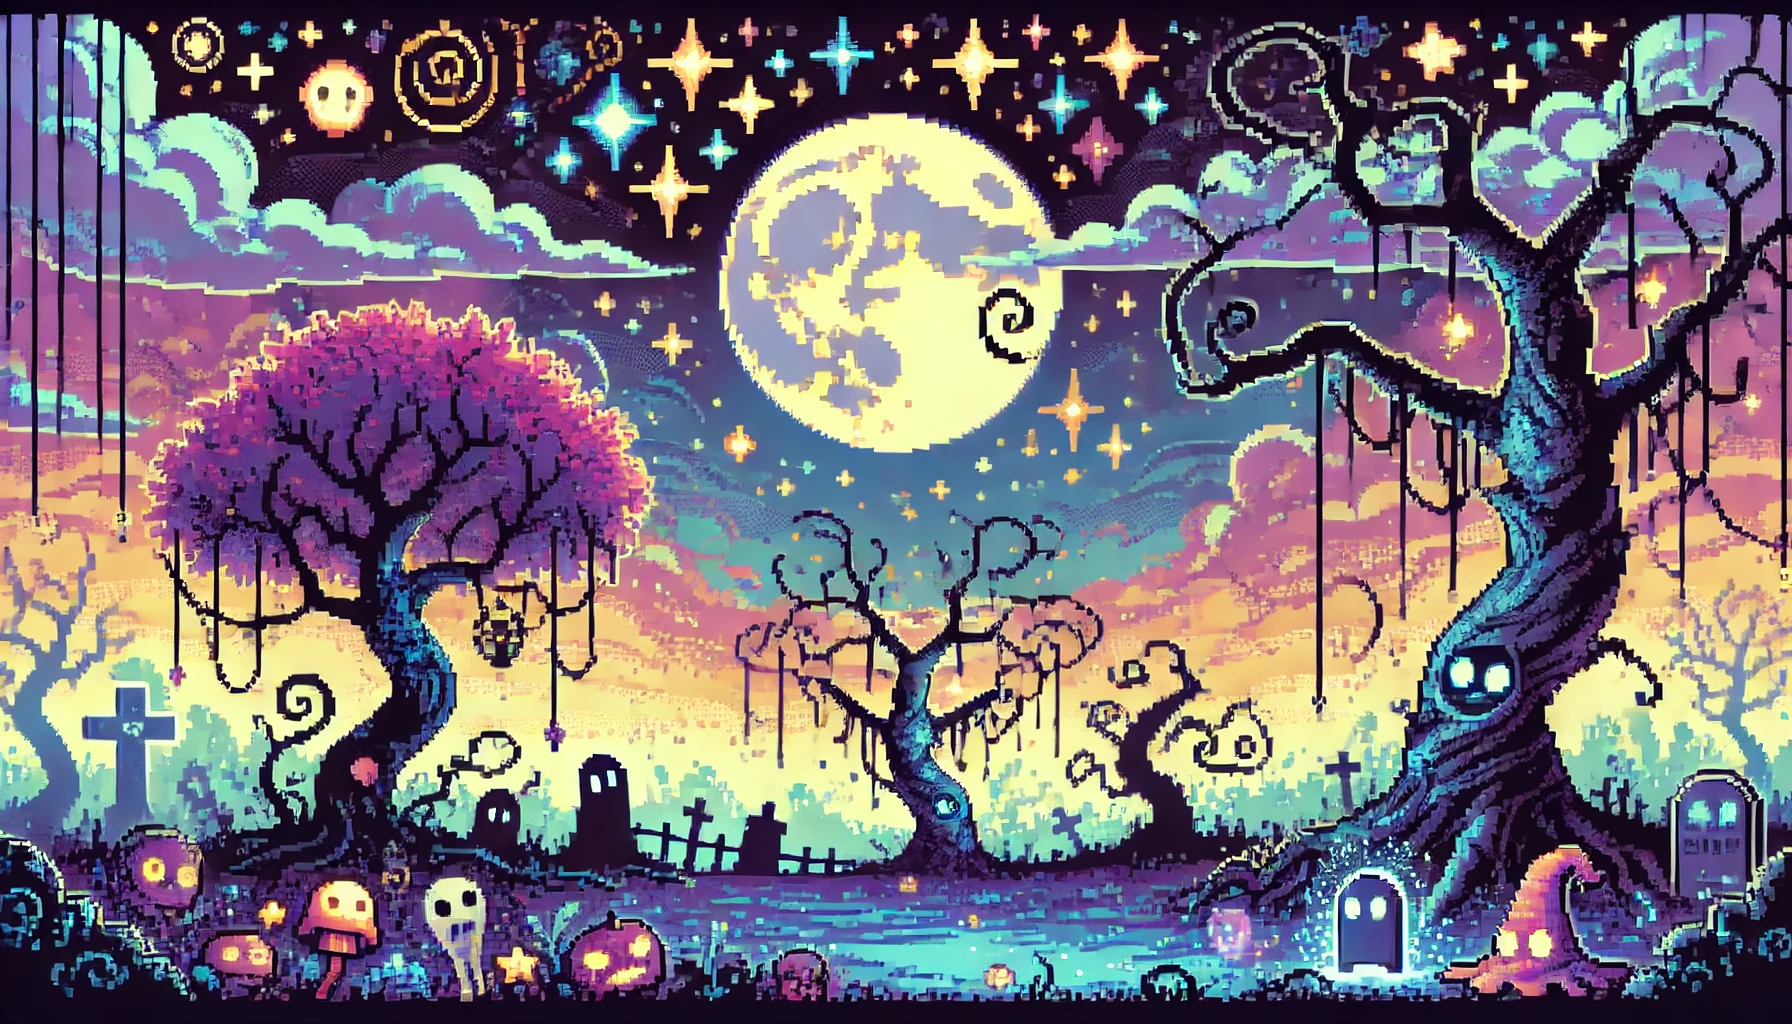
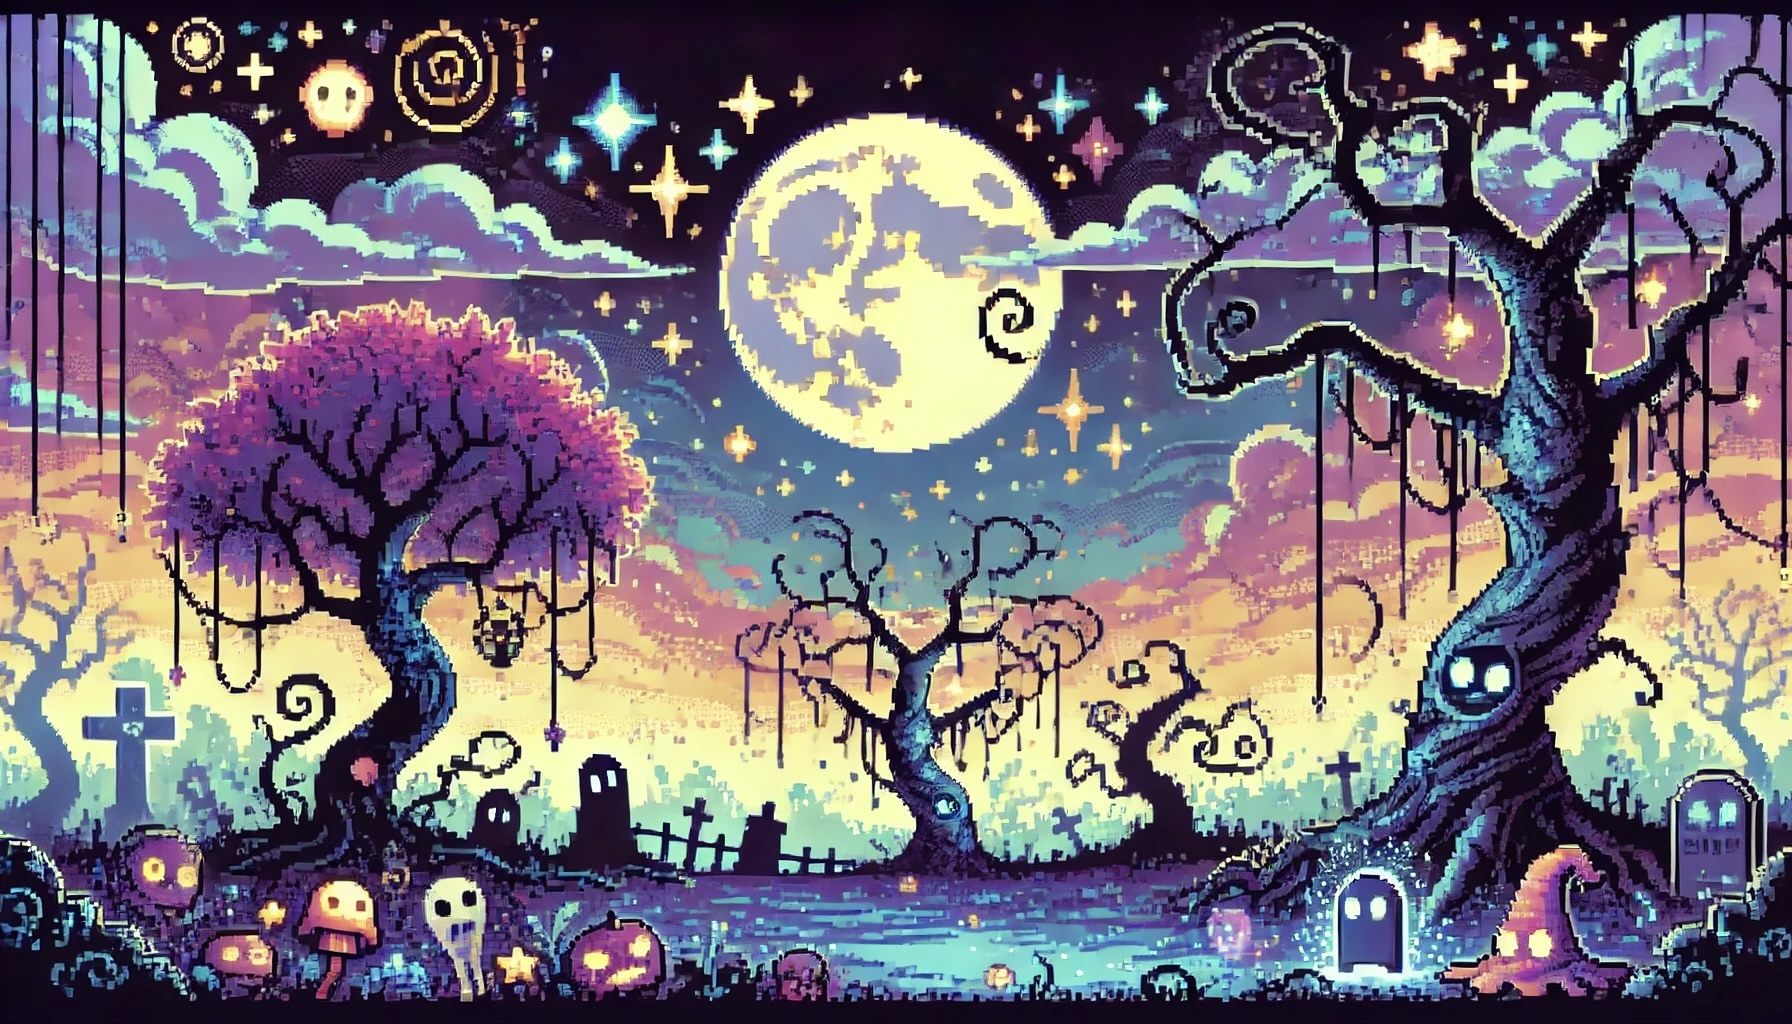
uprava pozadi, aby byl videt text

diff --git a/css/gameSection.css b/css/gameSection.css
@@ -1,11 +1,102 @@
-/* HLAVNI HRA  */
-
-/* pozadi pro hlavni hru */
-.gamePixel{
-    background-image:var(--BG_PixelGame);
+/* HLAVNÍ HRA */
+section {
+    background-repeat: no-repeat;
+    background-size: cover;
+    background-position: center center;
+    height: 100vh;
+    width: 100%;
+    margin: 0;
+    padding: 0;
 }
 
 .gamePostApo {
-    background-image:var(--BG_PostApoGame);
+    background-image: var(--BG_PostApoGame);
+    font-family: var(--fontFamily_PostApo);
+    display: flex;
+    flex-direction: column; 
+    
 }
+
+.gamePostApo li {
+   font-size: 1.5em;
+    background: linear-gradient(45deg, #B8860B, #FFD700, #DAA520); /* Zlaty efekt */
+    -webkit-background-clip: text;
+    -webkit-text-fill-color: transparent;
+    text-shadow: 1px 1px 1px rgba(0, 0, 0, 0.8), 0 0 10px #FFD700;
+    text-align: center;
+}
+
+.gamePixel {
+    background-image: url(../images/pixelGame/bg-pixel.png);
+    font-family: var(--fontFamily_Pixel);
+    display: flex;
+    flex-direction: column; 
+}
+
+.gamePixel li {
+    font-size: 2.5em;
+    color: #DDA0DD;
+    text-transform: uppercase;
+
+}
+
+
+
+.gamePixel li {
+    /* background: linear-gradient(45deg, #9400D3, #DDA0DD, #8A2BE2); 
+    -webkit-background-clip: text;
+    -webkit-text-fill-color: transparent; */
+    text-align: center; /* Zarovnání */
+    text-transform: uppercase;
+}
+
+
+/* HORNÍ PANEL */
+header {
+    display: flex; 
+    justify-content: center;
+    align-items: center; 
+    height: 100px; 
+    width: 100%;
+}
+
+.header-info {
+    display: flex;
+    justify-content: center; /* na stred */
+    align-items: center; /* vertikálni zarovnani */
+    gap: 20px; /* mezera mezi polozkami */
+    list-style-type: none; 
+    padding: 0;
+    margin: 0;
+}
+
+
+/* HERNÍ OBLAST */
+main#gameArea {
+    flex: 1; 
+    display: flex;
+    justify-content: center;
+    align-items: center; 
+}
+
+/* RESPONZIVNI DIZAJN */
+@media (max-width: 768px) {
+    header {
+        height: auto;
+        padding: 10px;
+    }
+
+    .header-info {
+        gap: 10px;
+    }
+
+    .info-item {
+        font-size: 1.2em;
+    }
+
+    main#gameArea {
+        padding: 10px;
+    }
+}
+
 

diff --git a/index.html b/index.html
@@ -41,7 +41,7 @@
     </aside>
 
     <!-- VYBER ZE DVOU HERNICH MODU -->
-    <nav id="modeSelection" >
+    <nav id="modeSelection" style="display: none;">
         <h2 id="greeting">Choose Your Game Mode:</h2>
         <div class="mode-container">
 
@@ -81,7 +81,7 @@
     <section class="gamePostApo">
         <header>
             <ul class="header-info">
-                <li class="stop-item"><button id="stop-button">||</button></li>
+                <!-- <li class="stop-item"><button id="stop-button">||</button></li> -->
                 <li class="info-item">Time: <span id="time">00:00</span></li>
                <li class="info-item">Score: <span id="score">0</span></li>
                <li class="info-item">Hit: <span id="hit">0</span></li>

diff --git a/css/modeSelection.css b/css/modeSelection.css
@@ -1,7 +1,3 @@
-.nameHL {
-    color: red;
-}
-
 #modeSelection {
     font-family: var(--fontUniversal);
     display: flex;
@@ -46,15 +42,15 @@
 }
 
 
-.modePixelGame {
-    background-image: 
+.modePixel {
+    background-image:var(--BG_PixelGame);
 }
 
 .modePostApo {
-    background-image: url(../images/postApoGame/bg-postApo.png);
+    background-image: var(--BG_PostApoGame);
 }
 
-.modePixelGame:hover,
+.modePixel:hover,
 .modePostApo:hover {
     transform: scale(1.05);
     opacity: .8;
@@ -68,7 +64,6 @@
         display: flex;
         flex-direction: column;
         align-items: center;
-        justify-content: flex-start; 
         text-align: center;
     }
 

diff --git a/css/variables.css b/css/variables.css
@@ -1,11 +1,17 @@
+@font-face {
+    font-family: 'Destroyed Font';
+    src: url('../fonts/Broken-Detroit.ttf') format('truetype');
+}
+
 :root {
-    --infoItemColor: rgb(109, 5, 5);
     --colorBG-Universal:#1a1a1a;
     --colorFont:#00d1b2;
     --highlightColor: #ff007f;
 
 
-    --fontFamilyStylePixel:'VT323', monospace;
+    --fontFamily_Pixel:'VT323', monospace;
+    --fontFamily_PostApo:'Destroyed Font', monospace;
+    
     --fontUniversal:'orbitron', monospace;
 
     --BG_PixelGame:url(../images/pixelGame/bg-pixel.png);

diff --git a/css/style.css b/css/style.css
@@ -9,12 +9,10 @@ body {
     background-size: cover;
     background-position: center center;
     height: 100vh;
-    width: 100%;  
-    justify-content: center; 
+    width: 100%;
     margin: 0;
     padding: 0;
     box-sizing: border-box;
-    border: solid 5px black;
     text-align: center;
 }
 
